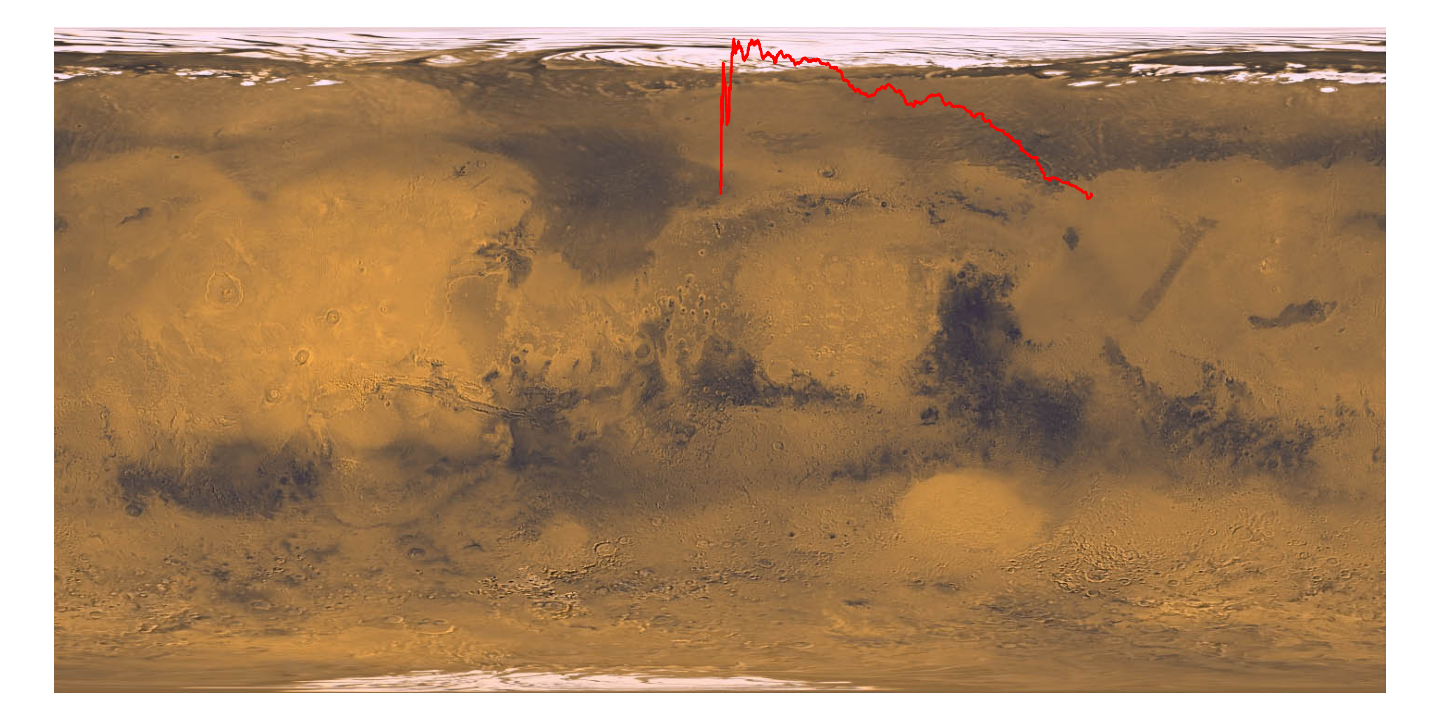
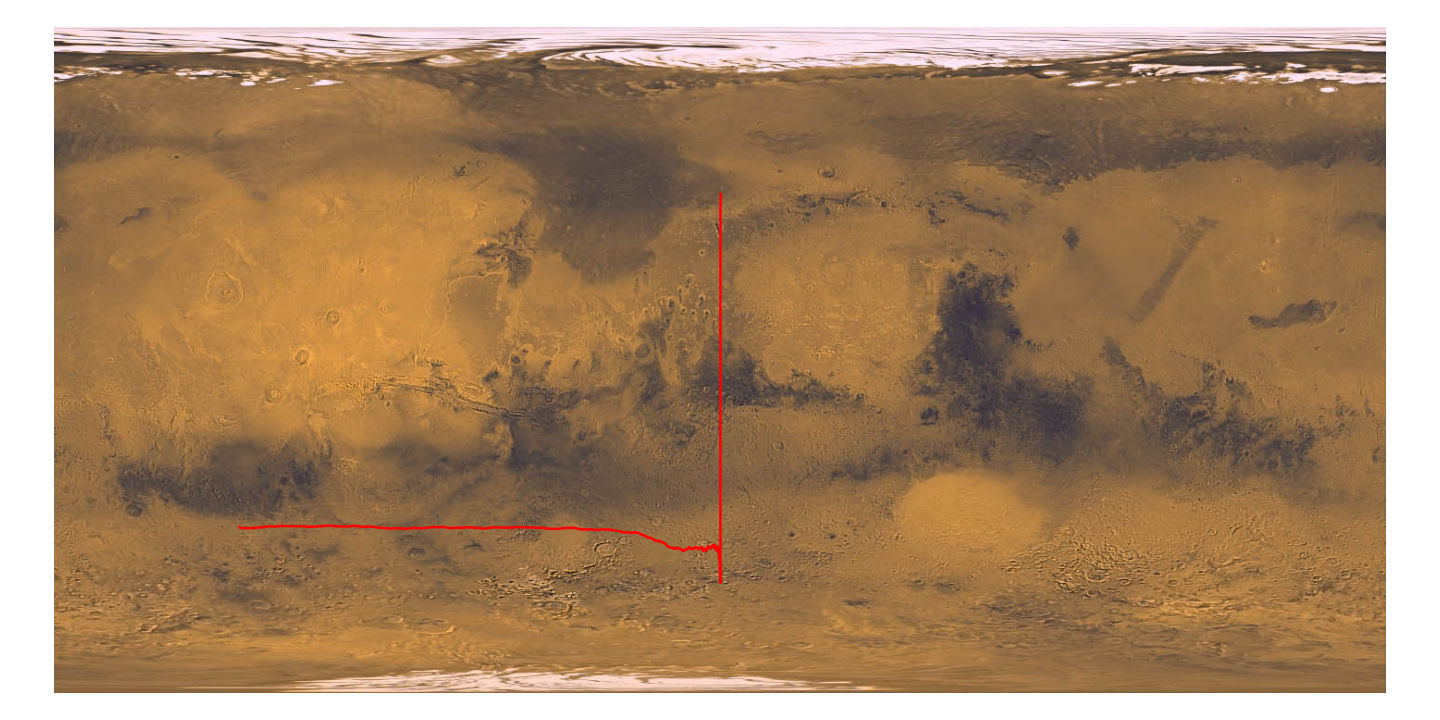
Performance improvements using numpy, some bugfixes for map generation.

diff --git a/PathFinding.py b/PathFinding.py
@@ -3,6 +3,7 @@ import gc
 import math
 import heapq
 import MapGenerator
+from datetime import datetime
 
 # You can ignore all code here up until line 39.
 
@@ -104,10 +105,13 @@ def diagnal(v):
     return (D3-D2)*min_dist + (D2 - D1) * mid_dist + D1 * max_dist
 
 def AStar(heuristic): # Evan
-    gs = [0] * num_points
-    fs = [math.inf] * num_points
-    prev = [-1] * num_points
-    visited = [False] * num_points
+    current_datetime = datetime.now()
+    current_time = current_datetime.time()
+    print(current_time)
+    gs = np.zeros(num_points, dtype=np.int64)
+    fs = np.full(shape=num_points, fill_value=np.iinfo(np.int64).max, dtype=np.int64)
+    prev = np.full(shape=num_points, fill_value=-1, dtype=np.int64)
+    visited = np.full(shape=num_points, fill_value=0, dtype=np.bool)
 
     pq = [(0, starting_index)]
 
@@ -138,12 +142,18 @@ def AStar(heuristic): # Evan
         path.append((pol_coords[node][0], pol_coords[node][1]))
         node = prev[node]
     path.append((pol_coords[starting_index][0], pol_coords[starting_index][1]))
+    current_datetime = datetime.now()
+    current_time = current_datetime.time()
+    print(current_time)
     return path
 
 def Dijkstras(): # Sam
-    next = [math.inf] * num_points
-    prev = [-1] * num_points
-    visited = [False] * num_points
+    current_datetime = datetime.now()
+    current_time = current_datetime.time()
+    print(current_time)
+    next = np.full(shape=num_points, fill_value=np.iinfo(np.int64).max, dtype=np.int64)
+    prev = np.full(shape=num_points, fill_value=-1, dtype=np.int64)
+    visited = np.full(shape=num_points, fill_value=0, dtype=np.bool)
 
     pq = [(0, starting_index)]
 
@@ -171,10 +181,16 @@ def Dijkstras(): # Sam
        path.append((pol_coords[node][0], pol_coords[node][1]))
        node = prev[node]
     path.append((pol_coords[starting_index][0], pol_coords[starting_index][1]))
+    current_datetime = datetime.now()
+    current_time = current_datetime.time()
+    print(current_time)
     return path
+
+
 
 print("Starting Astar!")
 MapGenerator.MapGen(AStar(haversine))
+
 print("Starting Dijkstras!")
 MapGenerator.MapGen(Dijkstras())
 

diff --git a/SlopeLimit.py b/SlopeLimit.py
@@ -2,16 +2,15 @@ import math
 import csv
 import numpy as np
 
-source_path_1 = "Mars/MarsAdjaListLR100.csv" # Source Path for the Adjacency List
-source_path_2 = "Mars/MarsPolarLR100.csv" # Source Path for Polar Coordinates
-source_path_3 = "Mars/MarsCartesianLR100.csv"
+source_path_1 = "Mars/MarsAdjaListLR10N20.csv" # Source Path for the Adjacency List
+source_path_2 = "Mars/MarsPolarLR10.csv" # Source Path for Polar Coordinates
+source_path_3 = "Mars/MarsCartesianLR10.csv"
 
 # The starting and ending points are stored in arrays of size 2.
 # We look through the polar coordinates and save the closest pair of coordinates.
 
 adjalist = np.loadtxt(source_path_1, delimiter=",", dtype=np.int32)
 pol_coords = np.loadtxt(source_path_2, delimiter=",", dtype=np.float64)
-car_coords = np.loadtxt(source_path_3, delimiter=",", dtype=np.int32)
 num_points = len(pol_coords)
 
 def slope_limit(max_angle=10.0):
@@ -43,8 +42,8 @@ def slope_limit(max_angle=10.0):
                 adjalist[i][u + 1] = -1
             u += 2
 
-    f = "Mars/MarsAdjaListLR100N20S1.csv"
-    with open(f, "w") as file:
+    f = "Mars/MarsAdjaListLR10N20S10.csv"
+    with open(f, "w", newline="") as file:
         writer = csv.writer(file)
         for i in range(len(adjalist)):
             writer.writerow(adjalist[i])

diff --git a/Shrink.py b/Shrink.py
@@ -1,18 +1,21 @@
 # Shrink XYZ Coords
+# This file was used to visualize the cartesian coordinates as a point cloud.
+# This was to ensure that we ended up with a sphere and properly converted from polar to cartesian.
 
 import csv
+import numpy as np
 
-source_path = "Mars/MarsCartesianLR100T.csv"
+source_path = "Mars/MarsCartesian.csv"
 
 shrink = 1000
 
-result_path = "Mars/MarsCartesianLR100S.csv"
+result_path = "Mars/MarsCartesianS.csv"
 
 count = 0
 
-with open(source_path, "r") as rfile:
-    reader = csv.reader(rfile)
-    with open(result_path, "w", newline="") as wfile:
-        writer = csv.writer(wfile)
-        for line in reader:
-            writer.writerow([str(float(line[0])/shrink) + " " + str(float(line[1])/shrink) + " " + str(float(line[2])/shrink)])
+car_coords = np.loadtxt(source_path, delimiter=",", dtype=np.int32)
+
+with open(result_path, "w", newline="") as wfile:
+    writer = csv.writer(wfile)
+    for line in car_coords:
+        writer.writerow([str(float(line[0])/shrink) + " " + str(float(line[1])/shrink) + " " + str(float(line[2])/shrink)])

diff --git a/MapGenerator.py b/MapGenerator.py
@@ -7,8 +7,8 @@ import csv
 # This function just converts polar coords (in tuple form) to cartesian
 def cartesian(polar, width, height):
     lon, lat = polar
-    x = (lon + 180) * (width / 360)
-    y = (90 - lat) * (height / 180)
+    x = (lon + 180) * (width / 360) % width
+    y = (90 - lat) * (height / 180) % height
     return x, y
 # This function will take in a vector of coordinate tuples and create an image
 # with the given path

diff --git a/PTC.py b/PTC.py
@@ -19,6 +19,4 @@ with open(source_path, "r") as mdatap:
             y = int(rho*np.sin(lat)*np.sin(lon))
             z = int(rho*np.cos(lon))
             writer.writerow([x, y, z])
-            if count % 1000000 == 0:
-                print(count/198333333)
             count += 1

diff --git a/Counter.py b/Counter.py
@@ -3,7 +3,7 @@
 import csv
 
 source_path = "Mars/MarsPolar.csv"
-source_path_2 = "Mars/MarsPolarND.csv"
+source_path_2 = "Mars/MarsCartesian.csv"
 count_1 = 0
 count_2 = 0
 
